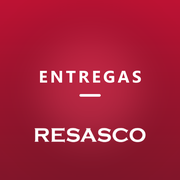
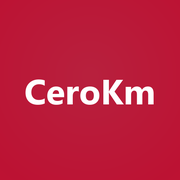
Nombre e icono CeroKm

diff --git a/index.html b/index.html
@@ -3,13 +3,13 @@
 <head>
 <meta charset="utf-8">
 <meta name="viewport" content="width=device-width, initial-scale=1, maximum-scale=1, viewport-fit=cover">
-<title>Entregas</title>
-<link rel="apple-touch-icon" href="icono-180.png?v=3">
-<link rel="icon" type="image/png" href="favicon.png?v=3">
-<link rel="manifest" href="manifest.webmanifest">
+<title>CeroKm</title>
+<link rel="apple-touch-icon" href="icono-180.png?v=5">
+<link rel="icon" type="image/png" href="favicon.png?v=5">
+<link rel="manifest" href="manifest.webmanifest?v=5">
 <meta name="apple-mobile-web-app-capable" content="yes">
 <meta name="mobile-web-app-capable" content="yes">
-<meta name="apple-mobile-web-app-title" content="Entregas">
+<meta name="apple-mobile-web-app-title" content="CeroKm">
 <meta name="apple-mobile-web-app-status-bar-style" content="black-translucent">
 <meta name="theme-color" content="#0e1014">
 <style>
@@ -158,9 +158,9 @@ function mostrar(html, cfg) {
   var h0 = 5381; for (var i = 0; i < html.length; i++) h0 = ((h0 << 5) + h0 + html.charCodeAt(i)) | 0;   // huella de esta versión (igual que huella() en puente)
   var ver = String(h0) + ':' + html.length;
   var extra = '<meta name="viewport" content="width=device-width, initial-scale=1, maximum-scale=1, viewport-fit=cover">' +
-    '<meta name="theme-color" content="#0e1014"><link rel="manifest" href="manifest.webmanifest">' +
-    '<link rel="apple-touch-icon" href="icono-180.png?v=3"><link rel="icon" type="image/png" href="favicon.png?v=3">' +
-    '<title>Entregas</title><script>window.__API=' + JSON.stringify(cfg) + ';window.__VER=' + JSON.stringify(ver) + ';window.__WRAP=' + JSON.stringify(WRAP_VER) + ';(' + puente.toString() + ')();<\/script>';
+    '<meta name="theme-color" content="#0e1014"><link rel="manifest" href="manifest.webmanifest?v=5">' +
+    '<link rel="apple-touch-icon" href="icono-180.png?v=5"><link rel="icon" type="image/png" href="favicon.png?v=5">' +
+    '<title>CeroKm</title><script>window.__API=' + JSON.stringify(cfg) + ';window.__VER=' + JSON.stringify(ver) + ';window.__WRAP=' + JSON.stringify(WRAP_VER) + ';(' + puente.toString() + ')();<\/script>';
   html = html.replace(/<base[^>]*>/i, '').replace(/<head>/i, '<head>' + extra);
   document.open(); document.write(html); document.close();
 }
